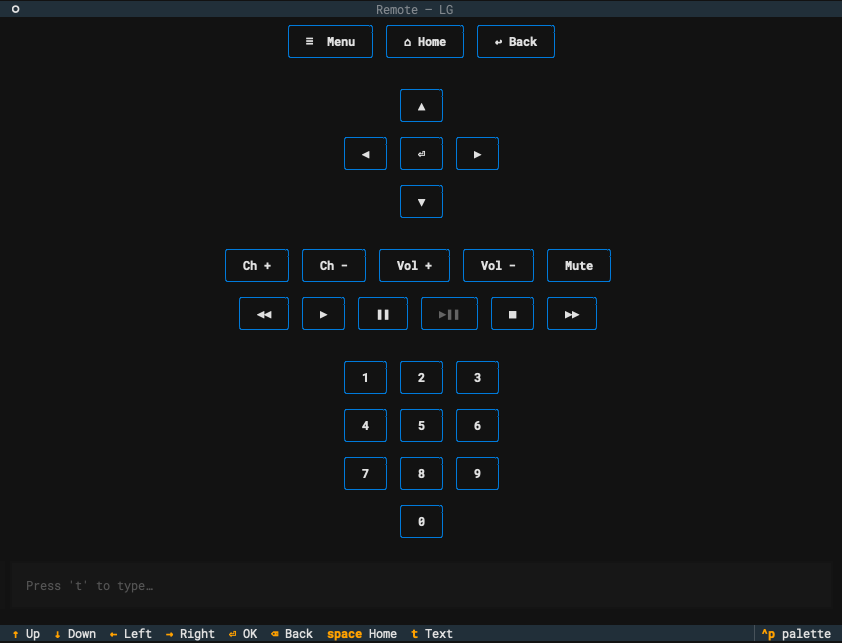
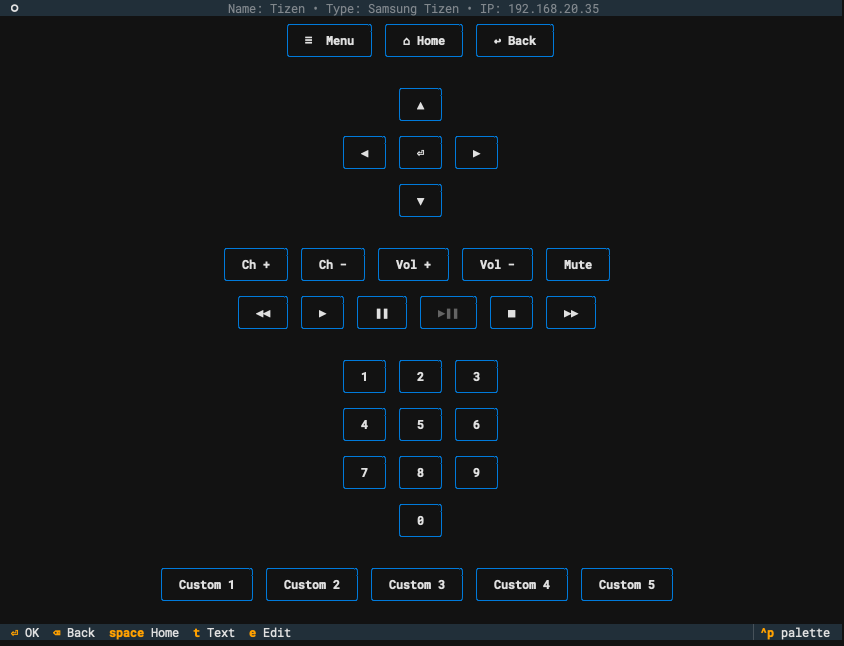
docs(readme): refresh remote screenshots for custom buttons
- Replace the stale remote screenshot (old arrow-hint footer, removed
  docked text field, no custom-button row) with the current remote:
  the Custom 1-5 row and the `e Edit` footer hint.
- Add screenshots of the Configure Custom Button modal and the Run
  Custom Script config modal, wired into the custom-buttons section.

diff --git a/README.md b/README.md
@@ -146,6 +146,8 @@ change where it applies — moving a button to a broader scope takes effect at
 once. A **Reset** button clears the button back to its default title with no
 action.
 
+![Configure a custom button](docs/screenshots/configure-custom-button.png)
+
 **Give a button an action.** In that same config pop-up, open **Action Type** and
 pick **Run Custom Script** to attach a shell script to the button. Choose **Script
 File** to point at a script on disk (it runs through the shell, so it needs no
@@ -164,6 +166,8 @@ Results settings filled in, so you pick up where you left off.
 Scripts run in the background so the remote never freezes, bounded by a fixed
 30-second timeout that kills a hung script. `REMOTE_IP` is set in the script's
 environment to the connected device's IP address.
+
+![Configure a Run Custom Script action](docs/screenshots/run-custom-script.png)
 
 > **Trust model.** Run Custom Script executes shell **you** wrote, on **your own**
 > machine, under your own account — there is **no sandbox** and no vetting of what a